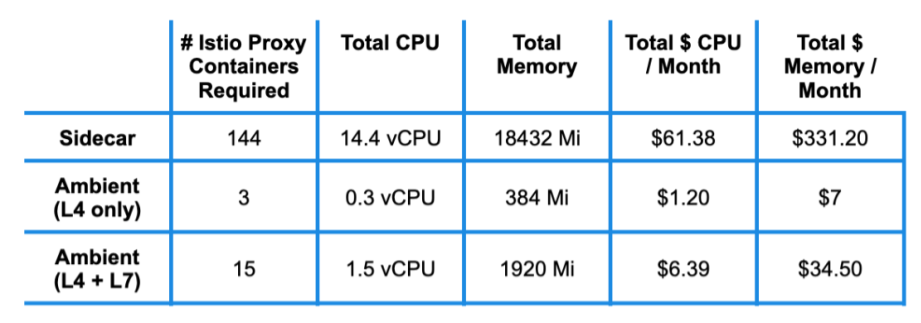
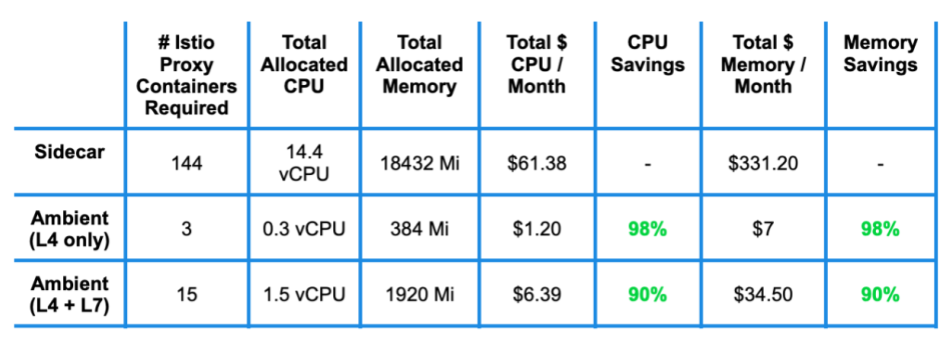
consistent percentage representation. added savings to usage and allocation tables

diff --git a/content/en/blog/2023/ambient-performance-savings/index.md b/content/en/blog/2023/ambient-performance-savings/index.md
@@ -1,7 +1,7 @@
 ---
 title: "Cut Service Mesh Overhead with Istio Ambient Mesh"
 description: An anaylsis of how cloud resources are utilized in ambient and sidecar service mesh architectures.
-publishdate: 2023-06-15
+publishdate: 2023-07-12
 attribution: "Greg Hanson - Solo.io"
 keywords: [istio,ambient,waypoint,ztunnel]
 ---
@@ -27,7 +27,7 @@ Spoilers! There are significant savings across the board for all ambient scenari
     caption="Total Memory and CPU: Consumption and Allocation"
     >}}
 
-Looking at total CPU and memory consumption, we have to remember that in the [ambient architecture](/blog/2022/introducing-ambient-mesh/), there are not sidecar containers for every application pod in the mesh. The result is that memory usage of Istio’s dataplane in the ztunnel-only ambient scenario uses *less than 1%* of what is used in sidecar scenarios, and still only 12% when waypoints are added. Looking at CPU, ztunnel once again uses 18% of what the sidecar scenario requires, and 60% when waypoints are deployed.
+Looking at [total CPU and memory consumption numbers](#a-closer-look), we have to remember that in the [ambient architecture](/blog/2022/introducing-ambient-mesh/), there are no sidecar containers for every application pod in the mesh. The result is that memory usage of Istio’s dataplane in the ztunnel-only ambient scenario sees *more than 99% savings* compared to sidecar scenarios, and still 88% savings when waypoints are added. Looking at CPU, ztunnel once again sees 82% savings compared to the sidecar scenario, and 40% savings when waypoints are deployed.
 
 ## Where the Savings Are Coming From
 
@@ -39,10 +39,10 @@ Ambient mesh was designed to minimize resource requirements for users in their K
 
 The sidecar architecture forces this mode of allocation on users. Ambient solves these issues by leveraging a new architecture that separates the responsibilities of zero-trust networking and L7 policy handling. This is done with two new components to Istio: ztunnels and waypoint proxies.
 
-- [Ztunnels](/blog/2023/rust-based-ztunnel/) are a brand new Istio component written in Rust that are designed to be fast, secure, and lightweight. Ztunnels are deployed per node on a cluster and enable the most basic service mesh configurations for L4 features such as mTLS, telemetry, authentication, and L4 authorizations.
+- [Ztunnels](/blog/2023/rust-based-ztunnel/) are a brand new Istio component written in Rust that are designed to be fast, secure, and lightweight. Ztunnels are deployed per node and serve all pods co-located on the node. They enable the most basic service mesh configurations for L4 features such as mTLS, telemetry, authentication, and L4 authorizations.
 - [Waypoint proxies](/blog/2023/waypoint-proxy-made-simple/) provide L7 mesh features such as VirtualService routing, L7 telemetry, and L7 authorizations policies. Waypoints are still based on Envoy and are deployed per namespace or service account.
 
-These ztunnels and waypoint proxies work in tandem to replace sidecars in the Istio service mesh. So let’s take a closer look at how the two architectures compare in the tests above.
+These ztunnels and waypoint proxies work in tandem to replace sidecars in the Istio service mesh, and most importantly, unlike sidecars they scale independent to a user's applications pods. So let’s take a closer look at how the two architectures compare in the scenarios above.
 
 ## A Closer Look
 
@@ -61,11 +61,11 @@ These ztunnels and waypoint proxies work in tandem to replace sidecars in the Is
     caption="CPU and Memory usage for cluster"
     >}}
 
-Let’s start by looking at CPU usage by pod. In the sidecar scenarios, the containers utilizing the most CPU resources are the [frontend](https://github.com/GoogleCloudPlatform/microservices-demo/tree/main/src/frontend) service sidecars, which is main server hit by the load generators and also responsible for making any subsequent calls to other underlying microservices.
+Let’s start by looking at CPU usage by pod. In the sidecar scenarios, the containers utilizing the most CPU resources are the [frontend](https://github.com/GoogleCloudPlatform/microservices-demo/tree/main/src/frontend) service sidecars, which is the main server hit by the load generators and also responsible for making any subsequent calls to other underlying microservices.
 
-In the ambient scenarios, a particular ztunnel's performance depends on the distribution of services across the nodes in the cluster. In the ambient with both ztunnel and waypoint proxy scenario, there is an increase in average CPU usage per ztunnel as traffic is now directed to waypoint proxies. The waypoint proxies themselves consume more resources than their sidecar counterparts.  This is expected since there are only 3 waypoints handling L7 processing for all 48 pods in the namespace.
+In the ambient scenarios, a particular ztunnel's performance depends on the distribution of services across the nodes in the cluster. Ztunnels do use more CPU than a sidecar, but each ztunnel is handling inbound and outbound connections for about 48 application pods whereas a sidecar is responsible for only one.  In the ambient with both ztunnel and waypoint proxy scenario, there is an increase in average CPU usage per ztunnel as traffic is now directed to waypoint proxies. The waypoint proxies themselves consume more resources than their sidecar counterparts.  This is expected since there are only 3 waypoints handling L7 processing for all 48 pods in the namespace.
 
-Next is memory usage by pod. In both ambient scenarios, the L4 ztunnel consumes less memory than a sidecar. In fact, in the L4 only scenario, almost all three ztunnel instances consume less memory than a single sidecar. Ztunnels are able to serve multiple applications while consuming fewer resources that sidecars because they are lightweight and written in Rust. Waypoint proxies consume a similar amount of resources as sidecars do, but once again see a minor increase due to the same reasons outlined above for CPU. So what do these per pod usages mean for the totals across the cluster? Everything.
+Next is memory usage by pod. In both ambient scenarios, the L4 ztunnel consumes less memory than a sidecar. In fact, in the L4 only scenario, almost all three ztunnel instances combined consume less memory than a single sidecar. Ztunnels are able to serve multiple applications while consuming fewer resources than sidecars because they are lightweight and written in Rust. Waypoint proxies consume a similar amount of resources as sidecars do, but once again see a minor increase due to the same reasons outlined above for CPU. So what do these per pod usages mean for the totals across the cluster? Everything.
 
 {{< image width="100%"
     link="total-cpu.png"
@@ -87,13 +87,13 @@ Next is memory usage by pod. In both ambient scenarios, the L4 ztunnel consumes 
     caption="Stacked memory usage by pod for sidecar and ambient pods"
     >}}
 
-Looking at total CPU and memory utilization, we have to remember that in sidecar scenarios there are 144 sidecar containers required (48 services, 3 replicas each), while in ambient, only three ztunnel containers and 12 waypoint proxies are required. The stacked CPU and memory by pod graphs are excellent at highlighting just how many additional containers are present between scenarios. Memory usage of the Istio dataplane in the ztunnel-only ambient scenario uses *less than 1%* of what is used in sidecar scenarios, and still only 12% when waypoints are added. Looking at CPU, ztunnel uses *18%* of what sidecar scenarios require, and 60% when waypoints are deployed.
+Looking at total CPU and memory utilization, we have to remember that in sidecar scenarios there are 144 sidecar containers required (48 services, 3 replicas each), while in ambient, only three ztunnel containers and 12 waypoint proxies are required. The stacked CPU and memory by pod graphs are excellent at highlighting just how many additional containers are present between scenarios. Memory usage of the Istio dataplane in the ztunnel-only ambient scenario sees *more than 99% savings* compared to sidecar scenarios, and 88% when waypoints are added. Looking at CPU, ztunnel sees *82% savings* compared to sidecar scenarios, and 40% when waypoints are deployed.
 
-Finally, let’s consider allocation since the graphs above have only covered usage. Every sidecar resource has a default request of 100 millicores vCPU and 128 MB memory, as well as limits set for 2 vCPUs and 1 GB memory. For simplicity, we assume ztunnels and waypoint proxies have similar requests and limits as their sidecar counterparts. Breaking it down, that’s a 98% reduction in allocated resources with ztunnel, and 90% when waypoints are included.
+Finally, let’s consider allocation since the graphs above have only covered usage. Every sidecar resource has a default request of 100 millicores vCPU and 128 MB memory. For simplicity, we assume ztunnels and waypoint proxies have similar requests and limits as their sidecar counterparts. Breaking it down, that’s a 98% reduction in allocated resources with ztunnel, and 90% when waypoints are included.
 
 {{< image width="100%"
     link="allocation.png"
-    caption="CPU and memory usage and cost breakdown for sidecar and ambient scenarios"
+    caption="CPU and memory allocation and cost breakdown for sidecar and ambient scenarios"
     >}}
 
 Going further, we can calculate a dollar amount for these numbers by referring to [GCP monthly pricing](https://cloud.google.com/compute/vm-instance-pricing) for a monthly cost per GB memory and per CPU. Consider these two different machines and their costs:
@@ -116,7 +116,7 @@ In comparison to what most users run Istio with in production, this test cluster
 
 Ka-ching. These results were collected with an alpha version of ambient, which is now [merged into the main branch](/blog/2023/ambient-merged-istio-main/) and included in Istio 1.18.
 
-Huge thanks to all the Istio maintainers who work very hard to make ambient as lean and performant as possible, ambient service mesh’s goal of reducing infrastructure costs is bearing fruit and setting a solid foot forward on its roadmap to production readiness. These early numbers suggest users could cut their cloud usage by *99%* and resource requirements by *90%* – especially if users only require an L4 mesh.
+Huge thanks to all the Istio maintainers who work very hard to make ambient as lean and performant as possible. Ambient service mesh’s goal of reducing infrastructure costs is bearing fruit and setting a solid foot forward on its roadmap to production readiness. These early numbers suggest users could cut their cloud usage by *99%* and resource requirements by *90%* – especially if users only require an L4 mesh.
 
 ## Learn More About Istio Ambient Mesh
 
